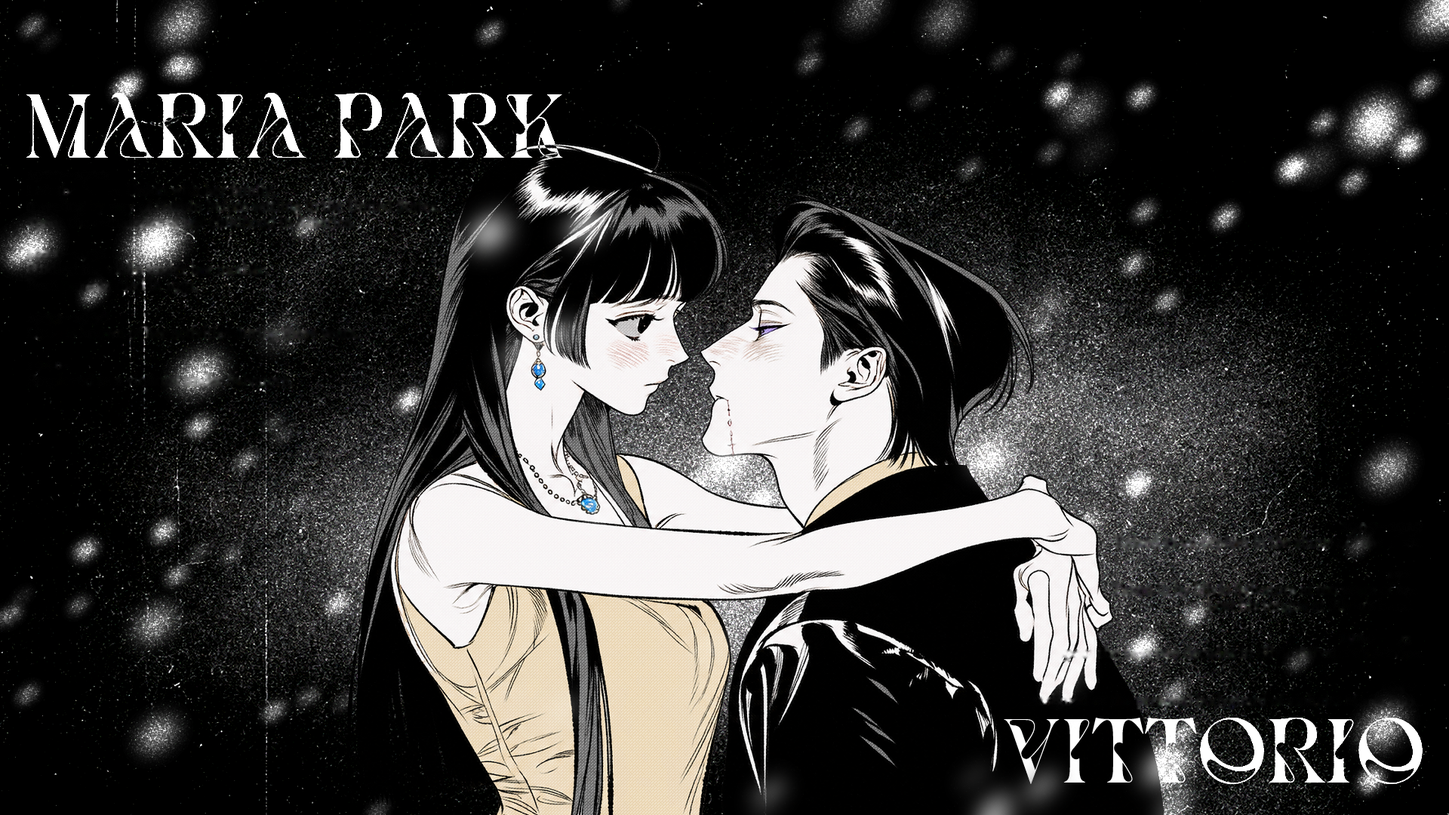
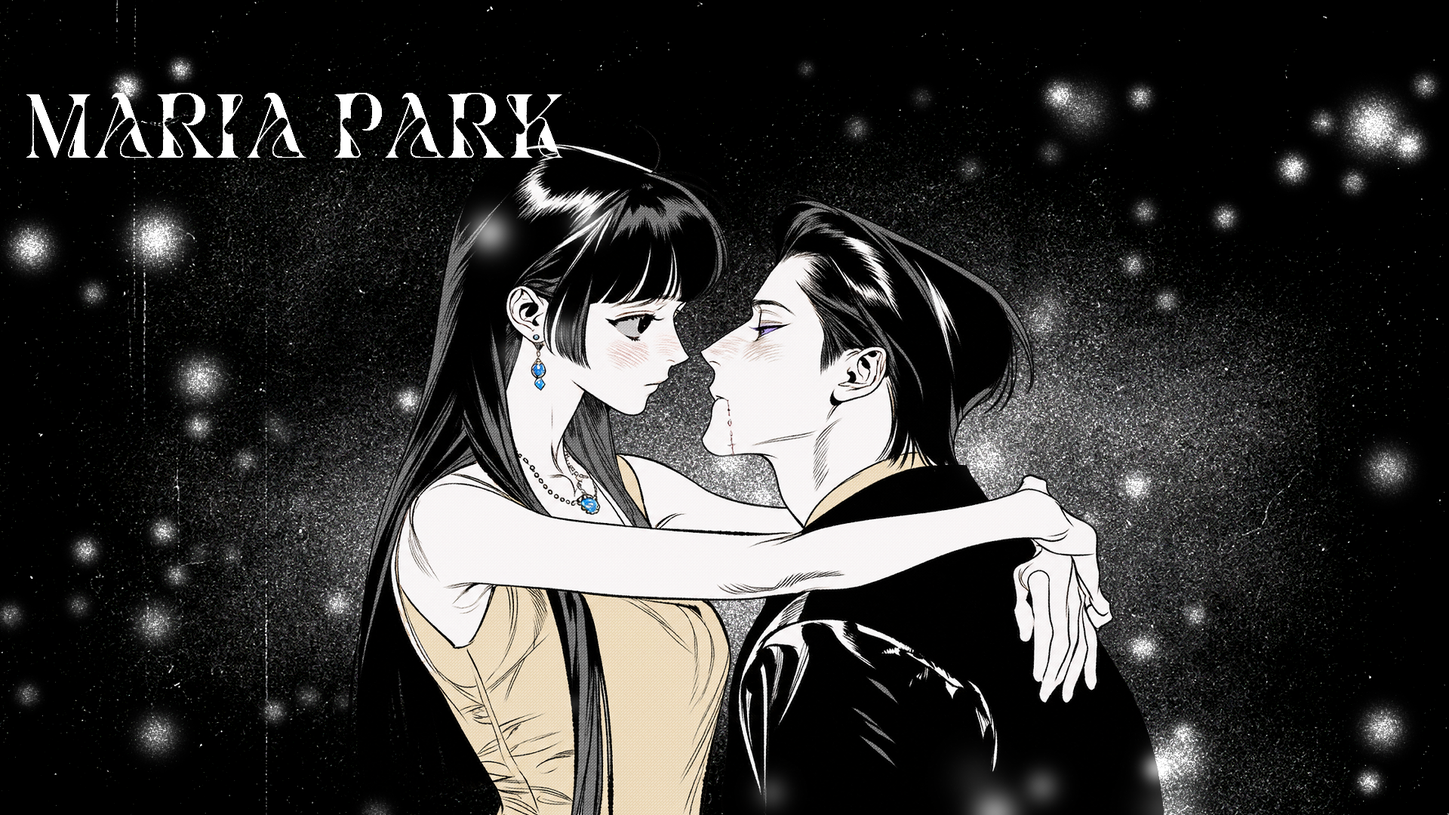
Add files via upload

diff --git a/snow.js b/snow.js
@@ -1,0 +1,85 @@
+/* ═══════════════════════════════════════════════════════════
+   눈 — 마우스를 피하는 눈송이
+   PSD 구성 그대로 실시간 합성:  (배경 ＋ 눈[스크린]) ÷ 노이즈[나누기]  → 하프톤 눈
+   눈 위치·크기는 기존 디자인에서 추출. WebGL을 못 쓰면 정지 이미지(scene-static.png) 그대로.
+   ═══════════════════════════════════════════════════════════ */
+(function(){
+const FLAKES = [[1068, 91, 5.87, 0.114], [239, 92, 7.6, 0.411], [1888, 113, 8.44, 0.287], [168, 115, 9.27, 0.541], [1403, 126, 10.08, 0.446], [1511, 128, 8.44, 0.333], [1221, 129, 7.6, 0.084], [1433, 145, 18.77, 0.191], [1753, 162, 8.44, 0.274], [1820, 167, 19.55, 0.567], [1135, 170, 8.44, 0.169], [1866, 192, 10.89, 0.528], [1392, 202, 8.44, 0.136], [1285, 223, 8.44, 0.129], [1713, 223, 10.08, 0.486], [1793, 241, 8.44, 0.277], [1516, 280, 8.44, 0.232], [1623, 288, 8.44, 0.349], [780, 293, 14.86, 0.476], [648, 308, 18.0, 0.617], [207, 316, 19.55, 0.531], [41, 328, 14.86, 0.475], [1501, 350, 8.44, 0.262], [123, 388, 8.44, 0.232], [1545, 398, 8.44, 0.265], [1386, 408, 16.43, 0.12], [1378, 430, 12.49, 0.124], [746, 441, 13.28, 0.318], [678, 470, 11.69, 0.239], [265, 502, 16.43, 0.385], [540, 530, 9.27, 0.427], [362, 561, 9.27, 0.088], [263, 565, 9.27, 0.328], [375, 576, 10.08, 0.083], [1308, 607, 17.21, 0.23], [325, 610, 8.44, 0.193], [965, 610, 11.69, 0.359], [1839, 621, 15.65, 0.306], [1504, 644, 10.89, 0.413], [1011, 658, 8.44, 0.284], [398, 666, 8.44, 0.079], [787, 675, 7.6, 0.11], [1445, 688, 6.75, 0.202], [216, 704, 9.27, 0.329], [113, 729, 9.27, 0.332], [264, 732, 8.44, 0.086], [307, 734, 8.44, 0.106], [234, 762, 8.44, 0.233], [446, 800, 9.27, 0.31], [104, 802, 8.44, 0.135], [1584, 814, 8.44, 0.255], [13, 815, 9.27, 0.183], [205, 826, 14.86, 0.253], [1514, 858, 10.08, 0.442], [36, 920, 8.44, 0.169], [408, 923, 8.44, 0.134], [454, 930, 6.75, 0.086], [761, 933, 8.44, 0.134], [363, 942, 8.44, 0.231], [1832, 965, 14.86, 0.38], [1568, 970, 8.44, 0.27], [208, 973, 14.86, 0.259], [1562, 1004, 21.11, 0.334], [1532, 1018, 12.49, 0.55], [1291, 1030, 22.66, 0.092], [1814, 1036, 8.44, 0.417], [1380, 1042, 15.65, 0.316], [1021, 1050, 15.65, 0.223], [1550, 1074, 25.75, 0.24], [499, 1079, 10.89, 0.123], [1318, 1079, 21.11, 0.554]];          // [x, y, 크기, 밝기]  (1920×1080 기준)
+const PUSH_RADIUS = 150;           // 커서가 눈을 미는 범위
+const PUSH_POWER  = 70;            // 최대로 밀리는 거리
+const RETURN      = 0.06;          // 제자리로 돌아오는 속도 (0~1)
+
+const scene = document.getElementById('scene');
+const img = scene && scene.querySelector('.scene-image');
+if (!img) return;
+const cv = document.createElement('canvas');
+cv.className = 'scene-canvas'; cv.width = 1920; cv.height = 1080;
+const gl = cv.getContext('webgl', {premultipliedAlpha:false, antialias:false, preserveDrawingBuffer:false});
+if (!gl) return;
+const MAX = 80;
+const vs = 'attribute vec2 p;void main(){gl_Position=vec4(p,0.,1.);}';
+const fs = `precision highp float;
+uniform sampler2D uBase,uNoise,uMask;uniform vec4 uF[${MAX}];uniform int uN;
+void main(){
+ vec2 px=vec2(gl_FragCoord.x,1080.-gl_FragCoord.y);
+ vec2 uv=gl_FragCoord.xy/vec2(1920.,1080.);
+ float s=0.;
+ for(int i=0;i<${MAX};i++){ if(i>=uN)break; vec4 f=uF[i]; vec2 d=px-f.xy; float r2=dot(d,d); float m=16.*f.z*f.z;
+   if(r2<m) s+=f.w*exp(-r2/(2.*f.z*f.z)); }
+ s=min(s,1.);
+ vec3 P=texture2D(uBase,uv).rgb;
+ vec3 Q=1.-(1.-P)*(1.-s);
+ float n=max(texture2D(uNoise,uv).r,1./255.);
+ float a=texture2D(uMask,uv).r;
+ gl_FragColor=vec4(mix(Q,min(Q/n,vec3(1.)),a),1.);
+}`;
+function sh(t,src){const s=gl.createShader(t);gl.shaderSource(s,src);gl.compileShader(s);if(!gl.getShaderParameter(s,gl.COMPILE_STATUS))throw gl.getShaderInfoLog(s);return s;}
+let prog;
+try{ prog=gl.createProgram(); gl.attachShader(prog,sh(gl.VERTEX_SHADER,vs)); gl.attachShader(prog,sh(gl.FRAGMENT_SHADER,fs)); gl.linkProgram(prog); }catch(e){ return; }
+gl.useProgram(prog);
+const buf=gl.createBuffer(); gl.bindBuffer(gl.ARRAY_BUFFER,buf);
+gl.bufferData(gl.ARRAY_BUFFER,new Float32Array([-1,-1,1,-1,-1,1,1,1]),gl.STATIC_DRAW);
+const loc=gl.getAttribLocation(prog,'p'); gl.enableVertexAttribArray(loc); gl.vertexAttribPointer(loc,2,gl.FLOAT,false,0,0);
+const uF=gl.getUniformLocation(prog,'uF'), uN=gl.getUniformLocation(prog,'uN');
+function tex(unit,name,image){
+  const t=gl.createTexture(); gl.activeTexture(gl.TEXTURE0+unit); gl.bindTexture(gl.TEXTURE_2D,t);
+  gl.pixelStorei(gl.UNPACK_FLIP_Y_WEBGL,true);
+  gl.texImage2D(gl.TEXTURE_2D,0,gl.RGBA,gl.RGBA,gl.UNSIGNED_BYTE,image);
+  for(const [k,v] of [[gl.TEXTURE_MIN_FILTER,gl.NEAREST],[gl.TEXTURE_MAG_FILTER,gl.NEAREST],[gl.TEXTURE_WRAP_S,gl.CLAMP_TO_EDGE],[gl.TEXTURE_WRAP_T,gl.CLAMP_TO_EDGE]]) gl.texParameteri(gl.TEXTURE_2D,k,v);
+  gl.uniform1i(gl.getUniformLocation(prog,name),unit);
+}
+const load=src=>new Promise((ok,no)=>{const i=new Image();i.decoding='async';i.onload=()=>ok(i);i.onerror=no;i.src=src;});
+
+const pos=FLAKES.map(f=>({hx:f[0],hy:f[1],x:f[0],y:f[1],s:f[2],a:f[3]}));
+const data=new Float32Array(MAX*4);
+let mouse=null, raf=0, ready=false;
+function draw(){
+  pos.forEach((p,i)=>{data[i*4]=p.x;data[i*4+1]=p.y;data[i*4+2]=p.s;data[i*4+3]=p.a;});
+  gl.uniform4fv(uF,data); gl.uniform1i(uN,pos.length);
+  gl.viewport(0,0,1920,1080); gl.drawArrays(gl.TRIANGLE_STRIP,0,4);
+}
+function step(){
+  raf=0; let moving=false;
+  for(const p of pos){
+    let tx=p.hx, ty=p.hy;
+    if(mouse){ const dx=p.hx-mouse.x, dy=p.hy-mouse.y, d=Math.hypot(dx,dy);
+      if(d<PUSH_RADIUS){ const k=Math.pow(1-d/PUSH_RADIUS,2)*PUSH_POWER/(d||1); tx+=dx*k; ty+=dy*k; } }
+    p.x+=(tx-p.x)*RETURN*2; p.y+=(ty-p.y)*RETURN*2;
+    if(Math.abs(tx-p.x)>.05||Math.abs(ty-p.y)>.05) moving=true;
+  }
+  draw();
+  if(moving) raf=requestAnimationFrame(step);
+}
+const kick=()=>{ if(ready&&!raf) raf=requestAnimationFrame(step); };
+// 커서 위치를 장면(1920×1080) 좌표로
+function toScene(e){ const r=scene.getBoundingClientRect(); return {x:(e.clientX-r.left)/r.width*1920, y:(e.clientY-r.top)/r.height*1080}; }
+window.addEventListener('pointermove',e=>{mouse=toScene(e);kick();},{passive:true});
+window.addEventListener('pointerleave',()=>{mouse=null;kick();});
+document.addEventListener('mouseleave',()=>{mouse=null;kick();});
+window.addEventListener('blur',()=>{mouse=null;kick();});
+
+Promise.all(['assets/scene-base.png','assets/scene-noise.png','assets/scene-mask.png'].map(load)).then(([b,n,m])=>{
+  tex(0,'uBase',b); tex(1,'uNoise',n); tex(2,'uMask',m);
+  img.after(cv); ready=true; draw(); cv.classList.add('on');
+}).catch(()=>{});
+})();

diff --git a/notebook.js b/notebook.js
@@ -1,0 +1,69 @@
+/* ═══════════════════════════════════════════════════════════
+   비토리오의 수첩 — 연대기 "Taken in by Silvio Salvatore…"를 누를 때마다 다른 쪽지
+   필체: 반흘림 정자체, 강한 필압, 짙은 보랏빛 잉크(#2D2346), Cormorant Garamond Italic
+   heavy: 감정이 격할 때(필압↑, 번짐↑)   cat: 마리아에게 쓴 사적인 메모(고양이 낙서)
+   ═══════════════════════════════════════════════════════════ */
+const NOTES = [
+  {d:'Sept. 22', t:"Good morning. It's past eight."},
+  {d:'Sept. 22', t:"Signor Giancarlo is waiting in the dining hall. He's already had two cups of coffee."},
+  {d:'Sept. 22', t:"If you don't get up, I'll have to carry you down. I'd rather not explain that to him."},
+  {d:'Sept. 22', t:"I know. I wasn't serious either."},
+  {d:'Sept. 24', t:"The tie was strategic. Rats let their guard down around a man who can't dress himself properly."},
+  {d:'Sept. 24', t:"If you need anything, ring the bell. I'll be across the hall."},
+  {d:'Oct. 3',   t:"We can stay a little longer if you wish. The garden is quiet today."},
+  {d:'Oct. 3',   t:"Yes or No.", cat:true},
+  {d:'Oct. 12',  t:"I happen to like jazz very much. Especially when it's played with such honesty."},
+  {d:'Oct. 13',  t:"Then I will live as your man. From this moment on, my life is yours. Entirely.", heavy:true},
+  {d:'Oct. 14',  t:"If it were me, I wouldn't have let you sell your hair. I would have sold my everything first."},
+  {d:'Oct. 15',  t:"Happy Birthday, Masha.", cat:true},
+  {d:'Oct. 15',  t:"I stayed up making this, and every second felt like it was already yours."},
+  {d:'Nov. 15',  t:"I brought canelé today. The bakery on 72nd Street bakes them on Fridays only."},
+  {d:'Nov. 15',  t:"Then I will buy every canelé on 72nd Street every Friday until they run out of sugar.", cat:true},
+  {d:'Nov. 22',  t:"Always. I promise you every Friday, every canelé, every cup of flat white."},
+  {d:'Nov. 22',  t:"And when I cannot keep my promise, forgive the silence.", heavy:true},
+  {d:'Dec. 6',   t:"I'll be back before dawn. Lock your door.", cat:true, cats:2},
+  {d:'Dec. 25',  t:"Merry Christmas. The dinner downstairs starts at eight. I came up fifteen minutes early. ...No particular reason."},
+  {d:'Dec. 25',  t:"You weren't supposed to figure that out. The cat was supposed to just be a cat. You ruin all my excuses.", cat:true},
+  {d:'Dec. 26',  t:"This is my voice. You bought me a voice for Christmas."},
+  {d:'Dec. 31',  t:"Yes. That is the one thing in my life that was never a lie.", heavy:true},
+  {d:'Dec. 31',  t:"I was supposed to be a knife. I became something else.", heavy:true},
+  {d:'Dec. 31',  t:"Hit me, Masha. Or curse me. Please don't just cry like that.", heavy:true},
+  {d:'Jan. 1',   t:"Forget Lorenzo. His ledger is my problem, not yours."},
+  {d:'Jan. 13',  t:"We need to move. Now. North, then west."},
+];
+(function(){
+  const trig = document.querySelector('.note-trigger');
+  const nb = document.getElementById('notebook'), page = document.getElementById('nbPage');
+  const dateEl = document.getElementById('nbDate'), textEl = document.getElementById('nbText');
+  const scene = document.getElementById('scene');
+  if (!trig || !nb) return;
+  let bag = [], last = -1;
+  function nextIndex(){                     // 전부 한 번씩 나온 뒤에 다시 섞음 (같은 쪽지 연속 X)
+    if (!bag.length){ bag = NOTES.map((_, i) => i).sort(() => Math.random() - .5); if (bag[0] === last) bag.push(bag.shift()); }
+    return last = bag.shift();
+  }
+  function write(){
+    const n = NOTES[nextIndex()];
+    dateEl.textContent = n.d;
+    textEl.className = 'nb-text' + (n.heavy ? ' heavy' : '');
+    textEl.textContent = n.t;
+    if (n.cat){ const c = document.createElement('span'); c.className = 'cat'; c.textContent = Array(n.cats || 1).fill('=^._.^=').join(' '); textEl.append(' ', c); }
+  }
+  function open(){
+    if (nb.hidden || nb.classList.contains('closing')){ clearTimeout(open.t); nb.hidden = false; nb.classList.remove('closing'); scene.classList.add('notebook-open'); write(); return; }
+    write(); page.classList.remove('turn'); void page.offsetWidth; page.classList.add('turn');
+  }
+  function close(){
+    if (nb.hidden || nb.classList.contains('closing')) return;
+    nb.classList.add('closing'); scene.classList.remove('notebook-open');
+    open.t = setTimeout(() => { nb.hidden = true; nb.classList.remove('closing'); }, 300);
+  }
+  // 연대기 글씨: 닫혀 있으면 열고, 열려 있으면 닫음 (다음 쪽지는 수첩을 눌러서)
+  const toggle = () => (nb.hidden || nb.classList.contains('closing')) ? open() : close();
+  trig.addEventListener('click', e => { if (String(getSelection()).length) return; e.stopPropagation(); toggle(); });
+  trig.addEventListener('keydown', e => { if (e.key === 'Enter' || e.key === ' '){ e.preventDefault(); toggle(); } });
+  page.addEventListener('click', e => { if (String(getSelection()).length) return; e.stopPropagation(); open(); });   // 수첩을 눌러도 다음 장
+  nb.addEventListener('pointerdown', e => e.stopPropagation());
+  document.addEventListener('pointerdown', e => { if (!e.target.closest('.note-trigger')) close(); });
+  document.addEventListener('keydown', e => { if (e.key === 'Escape') close(); });
+})();

diff --git a/style.css b/style.css
@@ -33,10 +33,57 @@ body{font-family:"Times New Roman",Tinos,Georgia,serif}
 .vittorio-copy{left:1362px;top:692px;width:523px;height:248px;text-align:right}
 .vittorio-copy p{right:0}
 /* v11: 비토리오 이름·연대기를 작업 표시줄 높이(--lift)만큼 위로 */
-.title-clean-vittorio{clip-path:none!important;transition:none}
 .title-red-vittorio,.title-white-vittorio{top:calc(951px - var(--lift,0px))}
 .title-white-vittorio{left:1330px;width:555px;height:88px;z-index:5;clip-path:inset(0 0 0 0)}
 .scene[data-hover="vittorio-name"] .title-white-vittorio{clip-path:inset(0 100% 0 0)}
 .vittorio-copy{top:calc(692px - var(--lift,0px))}
 @media (max-width:700px) and (orientation:portrait){.viewport{touch-action:none}}
 @media (prefers-reduced-motion:reduce){.title-wipe,.hover-layer{transition:none!important}}
+
+/* 윤전기 전환 */
+.press-sheet{position:fixed;inset:0;z-index:1000;transform:translateY(101%);pointer-events:none;background:#e3d0c1;
+  transition:transform 1.1s cubic-bezier(.3,.1,.2,1);box-shadow:0 -14px 30px rgba(0,0,0,.45)}
+.press-sheet.rolling{transform:translateY(0)}
+.press-sheet iframe{width:100%;height:100%;border:0;display:block}
+@media (prefers-reduced-motion:reduce){.press-sheet{transition-duration:.01s}}
+
+/* 실시간 눈 캔버스 (정지 이미지 위에 겹침) */
+.scene-canvas{position:absolute;inset:0;width:1920px;height:1080px;display:block;pointer-events:none;opacity:0;transition:opacity .4s}
+.scene-canvas.on{opacity:1}
+
+/* 비토리오 연대기 "Taken in…" — 이름처럼 오른쪽→왼쪽으로 붉어짐 (부모가 difference) */
+.note-trigger{cursor:pointer;outline:none;color:transparent;-webkit-background-clip:text;background-clip:text;
+  background-image:linear-gradient(to left,#f00 50%,#fff 50%);background-size:200% 100%;background-position:0 0;
+  transition:background-position var(--red-duration) cubic-bezier(.45,0,.2,1)}
+.note-trigger:hover,.note-trigger:focus-visible,.notebook-open .note-trigger{background-position:100% 0}
+.note-trigger::selection{color:#fff}
+
+/* ── 몰스킨 포켓 수첩 (9 × 14 cm 비율) ── */
+.notebook{position:absolute;z-index:30;left:1545px;top:calc(205px - var(--lift,0px));width:290px;height:440px;
+  transform-origin:80% 100%;animation:nb-in .45s cubic-bezier(.2,.8,.3,1);user-select:text}
+.notebook[hidden]{display:none}
+.notebook.closing{animation:nb-out .3s ease-in forwards}
+@keyframes nb-in{from{opacity:0;transform:translate(10px,80px) rotate(-6deg) scale(.55)}to{opacity:1;transform:rotate(2deg)}}
+@keyframes nb-out{to{opacity:0;transform:translate(10px,80px) rotate(-6deg) scale(.55)}}
+.notebook{transform:rotate(2deg)}
+.nb-cover{position:absolute;inset:-7px -9px -7px -7px;border-radius:9px 12px 12px 9px;background:#151414;
+  box-shadow:0 18px 40px rgba(0,0,0,.55),inset 0 0 0 1px rgba(255,255,255,.05)}
+.nb-page{position:absolute;inset:0;border-radius:4px 9px 9px 4px;overflow:hidden;cursor:pointer;
+  background:
+    repeating-linear-gradient(to bottom,transparent 0 25px,rgba(120,105,85,.32) 25px 26px) 0 52px/100% calc(100% - 76px) no-repeat,
+    url(assets/news/paper-grain.png) 0 0/400px,
+    #f2e9d3;
+  background-blend-mode:normal,multiply,normal;
+  box-shadow:inset 10px 0 14px -10px rgba(0,0,0,.35);
+  padding:24px 46px 22px 28px;transform-origin:0 50%}
+.nb-page.turn{animation:nb-turn .5s cubic-bezier(.3,.7,.3,1)}
+@keyframes nb-turn{0%{transform:perspective(900px) rotateY(-75deg);filter:brightness(.8)}100%{transform:none}}
+.nb-date{height:32px;text-align:right;font:600 italic 14px/1 "Cormorant Garamond",Georgia,serif;color:rgba(45,35,70,.7);letter-spacing:.02em}
+.nb-text{font:500 italic 18px/26px "Cormorant Garamond","Noto Serif KR",Georgia,serif;color:#2d2346;
+  letter-spacing:-.025em;word-spacing:.05em;white-space:normal;text-shadow:.3px .3px 0 rgba(45,35,70,.35),0 0 .6px rgba(45,35,70,.45)}
+.nb-text.heavy{font-weight:700;letter-spacing:-.035em;text-shadow:.4px .4px 0 rgba(45,35,70,.5),0 0 1.1px rgba(45,35,70,.6)}
+.nb-text.soft{border-radius:2px}
+.nb-text .cat{display:inline-block;margin-left:.4em;font-style:normal;font-weight:600;font-family:"Courier New",monospace;font-size:15px;letter-spacing:-.04em;transform:rotate(-4deg)}
+.nb-band{position:absolute;top:-7px;bottom:-7px;right:22px;width:9px;background:#0d0d0d;border-radius:2px;box-shadow:-1px 0 2px rgba(0,0,0,.4);pointer-events:none}
+.nb-ribbon{position:absolute;left:120px;bottom:-52px;width:9px;height:62px;background:#4a1216;clip-path:polygon(0 0,100% 0,100% 100%,50% 82%,0 100%);pointer-events:none}
+@media (prefers-reduced-motion:reduce){.notebook,.nb-page.turn,.notebook.closing{animation:none}}

diff --git a/index.html b/index.html
@@ -7,8 +7,12 @@
   <title>MARIA PARK × VITTORIO</title>
   <meta name="description" content="MARIA PARK × VITTORIO — private archive">
   <link rel="preload" as="image" href="assets/scene-static.png">
-  <link rel="stylesheet" href="style.css?v=11">
-  <script src="script.js?v=11" defer></script>
+  <link rel="preconnect" href="https://fonts.googleapis.com"><link rel="preconnect" href="https://fonts.gstatic.com" crossorigin>
+  <link rel="stylesheet" href="https://fonts.googleapis.com/css2?family=Cormorant+Garamond:ital,wght@1,500;1,600;1,700&display=swap">
+  <link rel="stylesheet" href="style.css?v=13">
+  <script src="script.js?v=13" defer></script>
+  <script src="snow.js?v=1" defer></script>
+  <script src="notebook.js?v=2" defer></script>
 </head>
 <body>
  <main class="viewport" id="viewport" aria-label="MARIA PARK × VITTORIO">
@@ -21,7 +25,6 @@
      <!-- 기존 픽셀 글씨를 다시 겹쳐 쓰지 않도록, 해당 픽셀을 원본 배경으로 덮고 빨간 글씨를 노출. -->
      <img class="title-wipe title-clean title-clean-maria" src="assets/title-clean-maria.png" draggable="false" alt="">
      <img class="title-wipe title-red title-red-maria" src="assets/title-red-maria.png" draggable="false" alt="">
-     <img class="title-wipe title-clean title-clean-vittorio" src="assets/title-clean-vittorio.png" draggable="false" alt="">
      <!-- 원래 자리의 글씨는 clean 으로 지우고, 작업 표시줄에 가리지 않도록 올린 위치에 흰 글씨를 다시 그림 -->
      <img class="title-wipe title-white-vittorio" src="assets/title-white-vittorio.png" draggable="false" alt="">
      <img class="title-wipe title-red title-red-vittorio" src="assets/title-red-vittorio.png" draggable="false" alt="">
@@ -42,10 +45,16 @@
      </section>
      <section class="chronology vittorio-copy" aria-label="비토리오 연대기">
       <p style="--top:0px"><strong>1909–1919</strong><span>Raised as an orphan in the slums of New York.</span></p>
-      <p style="--top:64px"><strong>1920</strong><span>Taken in by Silvio Salvatore at ten years of age.<br>Lost his tongue at Silvio's hands.</span></p>
+      <p style="--top:64px"><strong>1920</strong><span class="note-trigger" role="button" tabindex="0" aria-label="비토리오의 수첩 열기">Taken in by Silvio Salvatore at ten years of age.<br>Lost his tongue at Silvio's hands.</span></p>
       <p style="--top:148px"><strong>1920–1939</strong><span>Spent the next two decades in Silvio Salvatore's service.</span></p>
       <p style="--top:211px"><strong>1940–</strong><span>Assigned as the personal bodyguard of violinist Maria Park.</span></p>
      </section>
+     <!-- 비토리오의 몰스킨 포켓 수첩 -->
+     <aside class="notebook" id="notebook" aria-live="polite" hidden>
+       <div class="nb-cover"></div>
+       <div class="nb-page" id="nbPage"><div class="nb-date" id="nbDate"></div><div class="nb-text" id="nbText"></div></div>
+       <div class="nb-band"></div><div class="nb-ribbon"></div>
+     </aside>
    </div>
  </main>
 </body>

diff --git a/script.js b/script.js
@@ -1,6 +1,6 @@
 /* 네 가지 링크만 바꾸면 됩니다. 주소가 빈 문자열이면 클릭해도 이동하지 않습니다. */
 const LINKS={
-  mariaName:'',
+  mariaName:'https://dpla-g6274.tistory.com/category/VITTORIO',
   vittorioName:'https://caveduck.io/ko/share/characters/4dd9205a-b982-496f-9597-72c5ddfc8b49?rc=1qQMZ53X9o&_share_hash=',
   mariaImage:'https://youtube.com/playlist?list=PLPOv65CdoMiw&si=R1mKH4y3lfv6whMW',
   vittorioImage:'news.html'   // 비토리오 그림 클릭 → 신문 3·4면
@@ -76,7 +76,7 @@ for(const el of document.querySelectorAll('.hotspot')){
  el.setAttribute('href',url||'#');
  // 사이트 안 페이지(news.html 등)는 같은 탭에서, 외부 주소는 새 탭에서 엽니다.
  if(/^https?:\/\//i.test(url)){el.setAttribute('target','_blank');el.setAttribute('rel','noopener noreferrer');}
- el.addEventListener('click',e=>{if(!url||blockClick)e.preventDefault();});
+ el.addEventListener('click',e=>{if(!url||blockClick){e.preventDefault();return;}if(key==='vittorioImage'&&url==='news.html'){e.preventDefault();pressTo(url);}});
  el.addEventListener('pointerenter',()=>scene.dataset.hover=el.dataset.hover);
  el.addEventListener('pointerleave',()=>{if(scene.dataset.hover===el.dataset.hover)scene.removeAttribute('data-hover');});
  el.addEventListener('focus',()=>scene.dataset.hover=el.dataset.hover);
@@ -102,3 +102,30 @@ viewport.addEventListener('pointermove',e=>{
 function endDrag(e){if(!drag||drag.id!==e.pointerId)return;if(drag.moved){blockClick=true;setTimeout(()=>blockClick=false,120)}drag=null}
 viewport.addEventListener('pointerup',endDrag);
 viewport.addEventListener('pointercancel',endDrag);
+
+
+/* ── 페이지 전환: 윤전기 (신문이 아래에서 위로 올라옴) ──
+   신문 페이지를 미리 뒤에서 불러 두었다가 밀어 올리고, 다 올라오면 실제로 이동 → 끊김 없음 */
+let pressSheet=null, pressing=false;
+function preparePress(){
+  if(pressSheet)return;
+  pressSheet=document.createElement('div');
+  pressSheet.className='press-sheet';
+  pressSheet.innerHTML='<iframe src="news.html" title="" tabindex="-1" aria-hidden="true"></iframe>';
+  document.body.appendChild(pressSheet);
+}
+function pressTo(url){
+  if(pressing)return; pressing=true;
+  preparePress();
+  const go=()=>{
+    pressSheet.classList.add('rolling');
+    const done=()=>{location.href=url;};
+    pressSheet.addEventListener('transitionend',done,{once:true});
+    setTimeout(done,1600);   // 혹시 transitionend가 안 오면
+  };
+  requestAnimationFrame(()=>requestAnimationFrame(go));
+}
+// 메인 화면이 다 뜬 뒤 조용히 미리 불러 둠
+if(window===window.top)window.addEventListener('load',()=>setTimeout(preparePress,800));   // 신문 페이지 안에 미리 불려 있을 땐 다시 불러오지 않음
+// 뒤로 가기로 돌아왔을 때 덮여 있는 신문 치우기
+window.addEventListener('pageshow',e=>{if(pressSheet){pressSheet.classList.remove('rolling');pressing=false;}});

diff --git a/news.html b/news.html
@@ -9,9 +9,9 @@
   <link rel="preconnect" href="https://fonts.googleapis.com">
   <link rel="preconnect" href="https://fonts.gstatic.com" crossorigin>
   <link rel="stylesheet" href="https://fonts.googleapis.com/css2?family=Courier+Prime:ital,wght@0,400;0,700;1,400&family=Anton&family=Archivo+Black&family=Archivo+Narrow:wght@700&family=Old+Standard+TT:ital@0;1&family=Pinyon+Script&display=swap">
-  <link rel="stylesheet" href="news.css?v=4">
+  <link rel="stylesheet" href="news.css?v=5">
   <script src="news-ads.js?v=1" defer></script>
-  <script src="news.js?v=4" defer></script>
+  <script src="news.js?v=6" defer></script>
 </head>
 <body>
 <!-- 인쇄 질감 필터: 글자 가장자리 번짐 + 잉크 빠짐 -->
@@ -33,7 +33,7 @@
   <header class="masthead ink">
     <div class="box box-left"></div>
     <div class="hd hd-abs hd-motto" style="--w:181px;--h:51px"><i class="glyph" style="--m:url(assets/news/motto.png)" aria-hidden="true"></i><span class="sel"><span class="ln" style="--x:0px;--y:0px;--lw:181px;--lh:21px">"All the News That's</span><span class="ln" style="--x:35px;--y:29px;--lw:110px;--lh:22px">Fit to Print."</span></span></div>
-    <div class="hd hd-abs hd-masthead" style="--w:831px;--h:107px"><i class="glyph" style="--m:url(assets/news/masthead.png)" aria-hidden="true"></i><span class="sel"><span class="ln" style="--x:0px;--y:0px;--lw:831px;--lh:107px">The New York Times.</span></span></div>
+    <a class="hd hd-abs hd-masthead" id="homeLink" href="index.html" aria-label="메인으로 돌아가기" style="--w:831px;--h:107px"><i class="glyph" style="--m:url(assets/news/masthead.png)" aria-hidden="true"></i><span class="sel"><span class="ln" style="--x:0px;--y:0px;--lw:831px;--lh:107px">The New York Times.</span></span></a>
     <div class="box box-right"></div>
     <div class="hd hd-abs hd-edition" style="--w:207px;--h:25px"><i class="glyph" style="--m:url(assets/news/edition.png)" aria-hidden="true"></i><span class="sel"><span class="ln caps" style="--x:0px;--y:0px;--lw:207px;--lh:25px">LATE CITY EDITION</span></span></div>
     <div class="hd hd-abs hd-weather" style="--w:221px;--h:29px"><i class="glyph" style="--m:url(assets/news/weather.png)" aria-hidden="true"></i><span class="sel"><span class="ln" style="--x:0px;--y:0px;--lw:221px;--lh:14px">Fair and cooler today. Tomorrow</span><span class="ln" style="--x:0px;--y:14px;--lw:221px;--lh:15px">fair and continued cool.</span></span></div>

diff --git a/news.js b/news.js
@@ -98,7 +98,7 @@ function fitSelectableText(){
 
 /* ── 키보드 ↑↓ / PageUp·PageDown으로도 면 넘기기 ── */
 const pages = document.getElementById('pages');
-pages.focus({preventScroll:true});
+if (window === window.top) pages.focus({preventScroll:true});   // 메인 화면이 미리 불러 둔 상태에서는 포커스를 가져가지 않음
 document.addEventListener('keydown', e => {
   if (document.activeElement && /INPUT|TEXTAREA/.test(document.activeElement.tagName)) return;
   if (e.target.closest && e.target.closest('.pl-track')) return;
@@ -245,4 +245,29 @@ document.querySelector('.masthead').addEventListener('wheel', e => {
       if (!ui.root.classList.contains('playing')) toggle();
     }, true);
   }
+})();
+
+/* ── 제호(The New York Times.) 클릭 → 메인으로: 신문이 아래로 내려가며 메인 화면이 드러남 ── */
+(function(){
+  const link = document.getElementById('homeLink');
+  if (!link || window !== window.top) return;
+  let back = null, going = false;
+  function prepare(){
+    if (back) return;
+    back = document.createElement('iframe');
+    back.src = 'index.html'; back.title = ''; back.tabIndex = -1; back.setAttribute('aria-hidden', 'true');
+    back.className = 'home-behind';
+    document.body.prepend(back);
+  }
+  window.addEventListener('load', () => setTimeout(prepare, 1500));
+  link.addEventListener('click', e => {
+    e.preventDefault(); if (going) return; going = true; prepare();
+    const st = document.getElementById('stage');
+    requestAnimationFrame(() => requestAnimationFrame(() => {
+      back.classList.add('show'); st.classList.add('rolling-down');
+      const done = () => { location.href = 'index.html'; };
+      st.addEventListener('transitionend', done, {once:true}); setTimeout(done, 1600);
+    }));
+  });
+  window.addEventListener('pageshow', () => { going = false; const st = document.getElementById('stage'); st.classList.remove('rolling-down'); if (back) back.classList.remove('show'); });
 })();

diff --git a/news.css b/news.css
@@ -150,3 +150,10 @@ a.txt{cursor:pointer}
 .classified b{font:700 10.4px "Archivo Narrow","Liberation Sans Narrow",sans-serif;letter-spacing:.04em}
 .classified p{margin:0 0 4px}
 .classified hr{border:0;border-top:1px solid var(--ink);margin:4px 30px}
+
+/* 메인으로 돌아가는 전환 (윤전기 반대 방향) */
+.home-behind{position:fixed;inset:0;width:100%;height:100%;border:0;z-index:0;visibility:hidden;pointer-events:none}
+.home-behind.show{visibility:visible}
+.stage{z-index:1;transition:transform 1.1s cubic-bezier(.6,0,.75,.85)}
+.stage.rolling-down{transform:translateY(102%);box-shadow:0 -14px 30px rgba(0,0,0,.45)}
+@media (prefers-reduced-motion:reduce){.stage{transition-duration:.01s}}

diff --git a/README.md b/README.md
@@ -79,3 +79,14 @@ tracks: [
 - 반응형 세로 배치: 주소창·작업 표시줄을 뺀 실제 창 높이에 맞춤. 위·아래 여백(18px, `news.js`의 `PAD`)은 고정, 남는 높이는 단마다 개체 사이 간격으로 나눠서 모든 단이 같은 줄에서 끝남.
 - 광고: `news-ads.js`. 맨 아래 `PLACEMENT`에서 면·단·위치·우선순위 설정. 창이 낮으면 우선순위 숫자가 큰 광고부터 자동으로 숨김.
 - 재생 바: 처음부터 곡 제목(Solitude) 표시.
+
+## v14
+- 링크: 마리아 이름 → 티스토리 VITTORIO 카테고리, 비토리오 이름 → caveduck, 마리아 그림 → 유튜브 재생목록.
+- 비토리오 그림 클릭 → "윤전기" 전환: 미리 불러 둔 신문이 아래에서 위로 올라온 뒤 news.html로 이동 (`script.js` 맨 아래, `style.css`의 `.press-sheet`). 속도는 `.press-sheet`의 `1.1s`.
+
+## v15
+- 신문 제호 "The New York Times." 클릭 → 메인으로 (신문이 아래로 내려가며 메인이 드러남).
+- 비토리오 수첩: 연대기 "Taken in by Silvio Salvatore…"에 마우스를 올리면 빨갛게(difference). 누르면 열리고 한 번 더 누르면 닫힘. 열 때마다 다른 쪽지, 수첩을 누르면 다음 장, 바깥/Esc로도 닫힘. 쪽지 내용·날짜는 `notebook.js` 맨 위 `NOTES`.
+- 눈: `snow.js`. PSD 구성 그대로 (배경 + 눈) ÷ 노이즈를 WebGL로 실시간 합성 → 커서 근처 눈송이가 비켜났다 돌아옴. 세기는 `PUSH_RADIUS`, `PUSH_POWER`, `RETURN`.
+  새 파일: assets/scene-base.png(눈 없는 배경), scene-noise.png(나누기 노이즈), scene-mask.png(노이즈 마스크). WebGL이 안 되면 scene-static.png(정지 화면) 표시.
+- 메인 배경을 PSD(2.psd)에서 다시 합성. 비토리오 이름은 원래 자리에서 빠지고 올린 위치에만 표시 → title-clean-vittorio.png 삭제.
